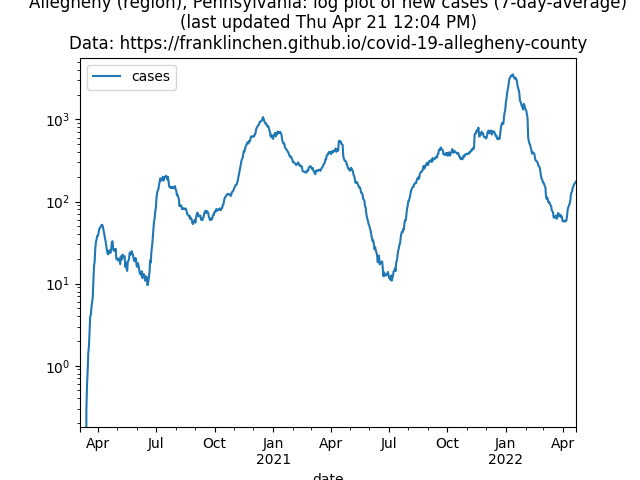
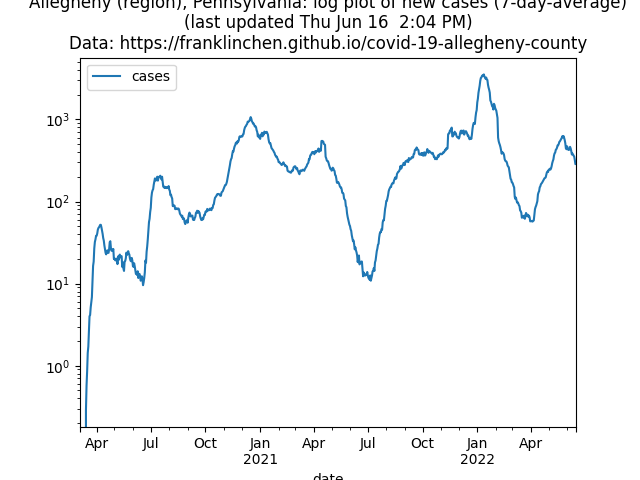
Clarification about case counts.

diff --git a/index.html b/index.html
@@ -12,11 +12,16 @@
         </header>
 
         <aside>
-            Last updated: Thu Apr 21, 12:04 PM
+            Last updated: Thu Jun 16,  2:04 PM
+
+            <p>
+                Note: updates are becoming less frequent now because of reduced PA reporting.  Thursday afternoon updates are the most complete.
+            </p>
         </aside>
 
         <section>
             <h2>News</h2>
+            <p>May 16, 2022: you can order <a href="https://special.usps.com/testkits">free tests delivered by USPS</a> for the third time.</p>
             <p>There is a very useful <a href="https://www.walgreens.com/businesssolutions/covid-19-index.jsp">Wallgreens COVID-19 Index</a> you might want to check.
             </p>
             <p>March 29, 2022: a second booster dose is now <a href="https://www.fda.gov/news-events/press-announcements/coronavirus-covid-19-update-fda-authorizes-second-booster-dose-two-covid-19-vaccines-older-and">FDA authorized</a> and available to individuals who are 50 years of age and older, or immunocompromised.
@@ -90,6 +95,9 @@
             </nav>
             <figure id="recentdailyaveraged">
                 <figcaption>
+                    <p>Because of the widespread use of at-home tests in 2022, <a href="https://yourlocalepidemiologist.substack.com/p/state-of-affairs-can-we-trust-case"><strong>officially recorded case counts are no longer an accurate measure of community transmission and infection</strong></a>. I have continued to provide the numbers anyway, even though by now they are probably a factor of <a href="https://www.theguardian.com/world/2022/jun/01/us-covid-surge-cases-rate">thirty</a> too low!
+                    </p>
+
                     <p>Daily hospitalizations are inaccurate until Thursdays.
                     </p>
                 </figcaption>
@@ -97,6 +105,9 @@
             </figure>
             <figure id="dailyaveraged">
                 <figcaption>
+                    <p>Because of the widespread use of at-home tests in 2022, <a href="https://yourlocalepidemiologist.substack.com/p/state-of-affairs-can-we-trust-case"><strong>officially recorded case counts are no longer an accurate measure of community transmission and infection</strong></a>. I have continued to provide the numbers anyway, even though by now they are probably a factor of <a href="https://www.theguardian.com/world/2022/jun/01/us-covid-surge-cases-rate">thirty</a> too low!
+                    </p>
+
                     <p>Daily hospitalizations are inaccurate until Thursdays.
                     </p>
                     <p>
@@ -107,6 +118,10 @@
             </figure>
             <figure id="total">
                 <figcaption>
+                    <p>Because of the widespread use of at-home tests in 2022, <a href="https://yourlocalepidemiologist.substack.com/p/state-of-affairs-can-we-trust-case"><strong>officially recorded case counts are no longer an accurate measure of community transmission and infection</strong></a>. I have continued to provide the numbers anyway, even though by now they are probably a factor of <a href="https://www.theguardian.com/world/2022/jun/01/us-covid-surge-cases-rate">thirty</a> too low!
+                    </p>
+
+
                     <p>Daily hospitalizations are inaccurate until Thursdays.
                     </p>
                     <p>
